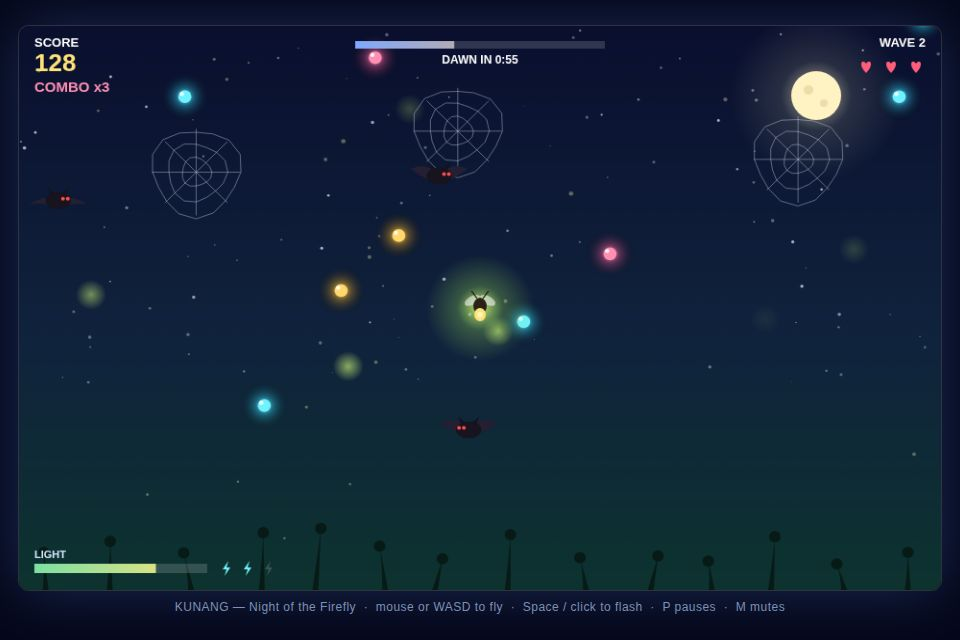
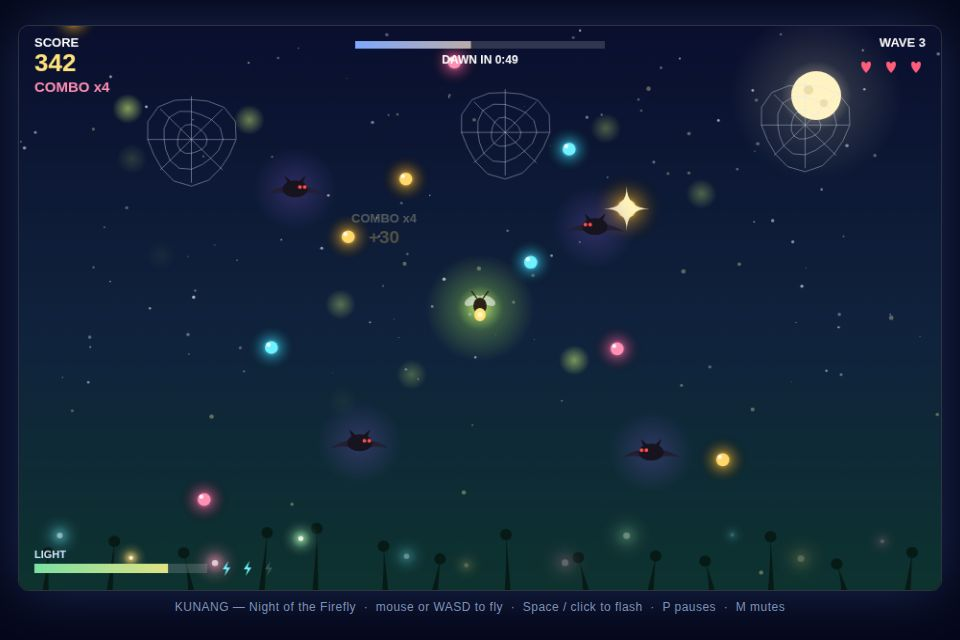
KUNANG v2: golden dew, denser play, readable bats, filled garden, new title cover

diff --git a/game/src/render.js b/game/src/render.js
@@ -29,6 +29,19 @@ const FLOWERS = [];
 for (let i = 0; i < 14; i++) {
   FLOWERS.push({ x: (i + 0.5) * (CANVAS_W / 14) + (rng() - 0.5) * 26, h: 26 + rng() * 42, sway: rng() * Math.PI * 2 });
 }
+// Glowing bell-flowers along the garden floor: the lower half of the screen
+// was empty dark space in screenshots, so these give it colour and light.
+const GLOWFLOWERS = [];
+const GLOW_COLORS = ['#6ff2ff', '#ffd76a', '#ff8fb3', '#9fe8a8'];
+for (let i = 0; i < 11; i++) {
+  GLOWFLOWERS.push({
+    x: 40 + i * 86 + (rng() - 0.5) * 40,
+    y: CANVAS_H - 26 - rng() * 34,
+    r: 4 + rng() * 4,
+    color: GLOW_COLORS[i % GLOW_COLORS.length],
+    tw: rng() * Math.PI * 2,
+  });
+}
 
 function fmtTime(sec) {
   const s = Math.max(0, Math.ceil(sec));
@@ -85,6 +98,25 @@ function drawBackground(ctx, world, now) {
     ctx.arc(f.x + sway * 2, CANVAS_H - f.h, 6, 0, Math.PI * 2);
     ctx.fill();
   }
+
+  // Glowing bell-flowers: soft halos that light the garden floor.
+  for (const g of GLOWFLOWERS) {
+    const a = 0.5 + 0.35 * Math.sin(now * 0.0012 + g.tw);
+    const halo = ctx.createRadialGradient(g.x, g.y, 1, g.x, g.y, g.r * 4);
+    halo.addColorStop(0, g.color);
+    halo.addColorStop(0.4, g.color + '44');
+    halo.addColorStop(1, 'rgba(0,0,0,0)');
+    ctx.globalAlpha = a;
+    ctx.fillStyle = halo;
+    ctx.beginPath();
+    ctx.arc(g.x, g.y, g.r * 4, 0, Math.PI * 2);
+    ctx.fill();
+    ctx.fillStyle = '#ffffff';
+    ctx.beginPath();
+    ctx.arc(g.x, g.y, g.r * 0.45, 0, Math.PI * 2);
+    ctx.fill();
+  }
+  ctx.globalAlpha = 1;
 }
 
 function drawWeb(ctx, web, now) {
@@ -133,6 +165,19 @@ function drawDew(ctx, d) {
   ctx.beginPath();
   ctx.arc(x - 3, d.y + bob - 3, 2.2, 0, Math.PI * 2);
   ctx.fill();
+  // Golden dew: the jackpot drop. A four-point star sparkle so it shouts
+  // "fly here" even when the screen is shrunk to a thumbnail.
+  if (d.golden) {
+    ctx.fillStyle = 'rgba(255, 247, 192, 0.95)';
+    const s = d.r * 1.5;
+    ctx.beginPath();
+    ctx.moveTo(x, d.y + bob - s);
+    ctx.quadraticCurveTo(x, d.y + bob, x + s, d.y + bob);
+    ctx.quadraticCurveTo(x, d.y + bob, x, d.y + bob + s);
+    ctx.quadraticCurveTo(x, d.y + bob, x - s, d.y + bob);
+    ctx.quadraticCurveTo(x, d.y + bob, x, d.y + bob - s);
+    ctx.fill();
+  }
 }
 
 function drawBat(ctx, b) {
@@ -140,6 +185,15 @@ function drawBat(ctx, b) {
   const dir = b.vx >= 0 ? 1 : -1;
   ctx.save();
   ctx.translate(b.x, b.y);
+  // A faint violet halo so the dark bat reads against the dark sky,
+  // even in a small screenshot.
+  const halo = ctx.createRadialGradient(0, 0, 2, 0, 0, 44);
+  halo.addColorStop(0, 'rgba(120, 90, 200, 0.30)');
+  halo.addColorStop(1, 'rgba(120, 90, 200, 0)');
+  ctx.fillStyle = halo;
+  ctx.beginPath();
+  ctx.arc(0, 0, 44, 0, Math.PI * 2);
+  ctx.fill();
   ctx.scale(dir, 1);
   // Wings, flapping.
   ctx.fillStyle = '#241f33';
@@ -317,6 +371,14 @@ function panel(ctx, x, y, w, h) {
 
 function drawTitle(ctx, world, now) {
   ctx.fillStyle = 'rgba(5, 8, 24, 0.45)';
+  ctx.fillRect(0, 0, CANVAS_W, CANVAS_H);
+  // A big firefly glow behind the title panel, so the cover reads warm
+  // and alive instead of a dark box on a dark sky.
+  const halo = ctx.createRadialGradient(CANVAS_W / 2, 300, 20, CANVAS_W / 2, 300, 340);
+  halo.addColorStop(0, 'rgba(216, 255, 122, 0.22)');
+  halo.addColorStop(0.55, 'rgba(160, 220, 120, 0.08)');
+  halo.addColorStop(1, 'rgba(160, 220, 120, 0)');
+  ctx.fillStyle = halo;
   ctx.fillRect(0, 0, CANVAS_W, CANVAS_H);
   panel(ctx, 180, 92, 600, 416);
   ctx.save();

diff --git a/game/src/shots.js b/game/src/shots.js
@@ -9,11 +9,11 @@
 import { CANVAS_W, CANVAS_H } from './config.js';
 import { resetWorld } from './world.js';
 
-function placeDew(world, x, y, colorName, phase) {
+function placeDew(world, x, y, colorName, phase, golden) {
   const colors = { cyan: { name: 'cyan', fill: '#6ff2ff', glow: '#2fb9d6' }, gold: { name: 'gold', fill: '#ffd76a', glow: '#d99a1f' }, pink: { name: 'pink', fill: '#ff8fb3', glow: '#d64f83' } };
   world.dew.push({
     x, y, vy: 60, sway: 0, swaySpeed: 1.6, color: colors[colorName],
-    r: 11, phase: phase || 0,
+    r: golden ? 16 : 11, phase: phase || 0, golden: !!golden,
   });
 }
 
@@ -27,31 +27,44 @@ export function setupShot(world, name) {
   resetWorld(world);
   if (name === 'title') {
     world.state = 'title';
-    // A little dew drifts behind the title panel, so the cover feels alive.
-    placeDew(world, 150, 420, 'gold', 0.4);
-    placeDew(world, 810, 380, 'cyan', 1.8);
-    placeDew(world, 700, 480, 'pink', 2.6);
+    // Dew drifts behind the title panel, so the cover feels alive.
+    placeDew(world, 110, 420, 'gold', 0.4);
+    placeDew(world, 850, 380, 'cyan', 1.8);
+    placeDew(world, 760, 500, 'pink', 2.6);
+    placeDew(world, 220, 140, 'cyan', 0.9);
+    placeDew(world, 700, 120, 'gold', 2.2, true);
     return true;
   }
   if (name === 'play') {
     world.state = 'play';
-    world.score = 128;
-    world.combo = 3;
+    world.score = 342;
+    world.combo = 4;
     world.comboColor = 'gold';
     world.lives = 3;
-    world.light = 72;
+    world.light = 78;
     world.flashCharges = 2;
-    world.elapsed = 34;
-    world.wave = 2;
-    world.player.x = 430;
-    world.player.y = 300;
+    world.elapsed = 41;
+    world.wave = 3;
+    world.player.x = 470;
+    world.player.y = 290;
+    // A busy mid-night moment: a golden drop to chase, a dew arc, bats
+    // closing in, and a flash going off — everything a real game shows.
+    placeDew(world, 620, 150, 'gold', 0.3, true);
     placeDew(world, 330, 180, 'gold', 0.3);
     placeDew(world, 390, 120, 'gold', 1.1);
     placeDew(world, 520, 210, 'cyan', 2.0);
-    placeDew(world, 610, 140, 'pink', 0.8);
+    placeDew(world, 610, 300, 'pink', 0.8);
     placeDew(world, 250, 300, 'cyan', 1.5);
+    placeDew(world, 720, 420, 'gold', 1.9);
+    placeDew(world, 180, 460, 'pink', 0.6);
+    placeDew(world, 560, 90, 'cyan', 2.4);
     placeBat(world, 180, 150, 150);
-    placeBat(world, 760, 420, -170);
+    placeBat(world, 780, 430, -170);
+    placeBat(world, 700, 190, -140);
+    placeBat(world, 240, 420, 160);
+    world.flashRing = { x: 470, y: 290, r: 95, life: 0.3 };
+    world.texts.push({ x: 380, y: 250, text: '+30', color: '#ffd76a', size: 19, life: 1 });
+    world.texts.push({ x: 380, y: 228, text: 'COMBO x4', color: '#fff7c0', size: 13, life: 1 });
     return true;
   }
   if (name === 'win') {

diff --git a/game/src/world.js b/game/src/world.js
@@ -8,7 +8,8 @@ import {
   CANVAS_W, CANVAS_H, NIGHT_SECONDS, START_LIVES, LIGHT_MAX,
   LIGHT_DRAIN_PER_SEC, LIGHT_PER_DEW, LIGHT_PER_BAT_HIT, LIGHT_PER_WEB,
   DARK_LIGHT, DEW_COLORS, DEW_BASE_POINTS, DEW_MAX_COMBO, DEW_SPAWN_EVERY_SEC,
-  DEW_FALL_MIN, DEW_FALL_MAX, DEW_RADIUS, BAT_SPAWN_EVERY_SEC, BAT_SPAWN_MIN_SEC,
+  DEW_FALL_MIN, DEW_FALL_MAX, DEW_RADIUS, GOLDEN_DEW_POINTS, GOLDEN_DEW_LIGHT,
+  GOLDEN_DEW_RADIUS, GOLDEN_DEW_EVERY_SEC, GOLDEN_DEW_CHANCE, BAT_SPAWN_EVERY_SEC, BAT_SPAWN_MIN_SEC,
   BAT_SPEED_MIN, BAT_SPEED_MAX, BAT_RADIUS, BAT_DARK_SPEED_MULT, WEB_COUNT,
   WEB_RADIUS, WEB_SLOW_SECONDS, FLASH_MAX_CHARGES, FLASH_RECHARGE_SEC,
   FLASH_RADIUS, FLASH_STUN_SEC, WAVE_SECONDS, WAVE_BONUS, MAX_WAVE,
@@ -71,6 +72,7 @@ export function createWorld() {
     ambient: [],
     pollen: [],
     dewTimer: 0,
+    goldenTimer: GOLDEN_DEW_EVERY_SEC,
     batTimer: 1.2,
     newBest: false,
   };
@@ -128,6 +130,7 @@ export function resetWorld(world) {
   world.particles = [];
   world.texts = [];
   world.dewTimer = 0;
+  world.goldenTimer = GOLDEN_DEW_EVERY_SEC;
   world.batTimer = 1.4;
   world.newBest = false;
   resetWebs(world);
@@ -149,6 +152,24 @@ function burst(world, x, y, color, n) {
 }
 
 function spawnDew(world) {
+  // Every so often the night offers a golden drop: bigger, brighter, worth
+  // chasing. It falls slower so the player can actually reach it.
+  world.goldenTimer -= DEW_SPAWN_EVERY_SEC;
+  if (world.goldenTimer <= 0 && Math.random() < GOLDEN_DEW_CHANCE + 0.5) {
+    world.goldenTimer = GOLDEN_DEW_EVERY_SEC * (0.8 + Math.random() * 0.5);
+    world.dew.push({
+      x: rand(60, CANVAS_W - 60),
+      y: -20,
+      vy: rand(DEW_FALL_MIN, DEW_FALL_MAX) * 0.7,
+      sway: rand(0, Math.PI * 2),
+      swaySpeed: rand(1.2, 2.4),
+      color: DEW_COLORS[1], // gold
+      r: GOLDEN_DEW_RADIUS,
+      phase: rand(0, Math.PI * 2),
+      golden: true,
+    });
+    return;
+  }
   const color = pick(DEW_COLORS);
   world.dew.push({
     x: rand(30, CANVAS_W - 30),
@@ -198,6 +219,15 @@ function flashBurst(world, sfx) {
 }
 
 function collectDew(world, drop, sfx) {
+  if (drop.golden) {
+    world.score += GOLDEN_DEW_POINTS;
+    world.light = Math.min(LIGHT_MAX, world.light + GOLDEN_DEW_LIGHT);
+    burst(world, drop.x, drop.y, '#ffe27a', 18);
+    burst(world, drop.x, drop.y, '#fff7c0', 8);
+    addText(world, drop.x, drop.y - 14, `GOLDEN +${GOLDEN_DEW_POINTS}`, '#ffe27a', 20);
+    sfx.collect(3);
+    return;
+  }
   const same = world.comboColor === drop.color.name;
   world.combo = same ? Math.min(world.combo + 1, DEW_MAX_COMBO) : 1;
   world.comboColor = drop.color.name;

diff --git a/game/src/config.js b/game/src/config.js
@@ -33,6 +33,14 @@ export const DEW_FALL_MIN = 42;
 export const DEW_FALL_MAX = 92;
 export const DEW_RADIUS = 11;
 
+// Golden dew: a rare, big, bright drop — the night's jackpot. Worth 50 points
+// and a big light top-up, so it is always worth flying for.
+export const GOLDEN_DEW_POINTS = 50;
+export const GOLDEN_DEW_LIGHT = 25;
+export const GOLDEN_DEW_RADIUS = 16;
+export const GOLDEN_DEW_EVERY_SEC = 12;
+export const GOLDEN_DEW_CHANCE = 0.14; // of each normal spawn, when one is due
+
 // Bats: the danger. They cross the garden in a sine wave.
 export const BAT_SPAWN_EVERY_SEC = 2.2; // wave 1; shrinks as waves rise
 export const BAT_SPAWN_MIN_SEC = 1.05;
@@ -69,5 +77,5 @@ export const DAWN_PER_LIFE = 100;
 export const DAWN_PER_LIGHT = 2;
 
 // Ambient dressing: background fireflies and drifting pollen.
-export const AMBIENT_FIREFLIES = 6;
-export const POLLEN_COUNT = 26;
+export const AMBIENT_FIREFLIES = 10;
+export const POLLEN_COUNT = 34;

diff --git a/README.md b/README.md
@@ -11,6 +11,7 @@ your light alive, dodge the bats, mind the spider webs — and survive the
 - **Lose:** 3 lives, lost to bat hits.
 - **Light:** drains over time; dew feeds it. In the dark, bats fly faster.
 - **Combo:** same-colour dew in a row multiplies points, up to x5.
+- **Golden dew:** a rare, big, bright drop falls every ~12 seconds — +50 points and +25 light. Always worth flying for.
 - **Flash:** Space or click repels and stuns nearby bats (3 charges, recharging).
 - **Waves:** every 20 seconds the night deepens — faster bats, more dew.
 
